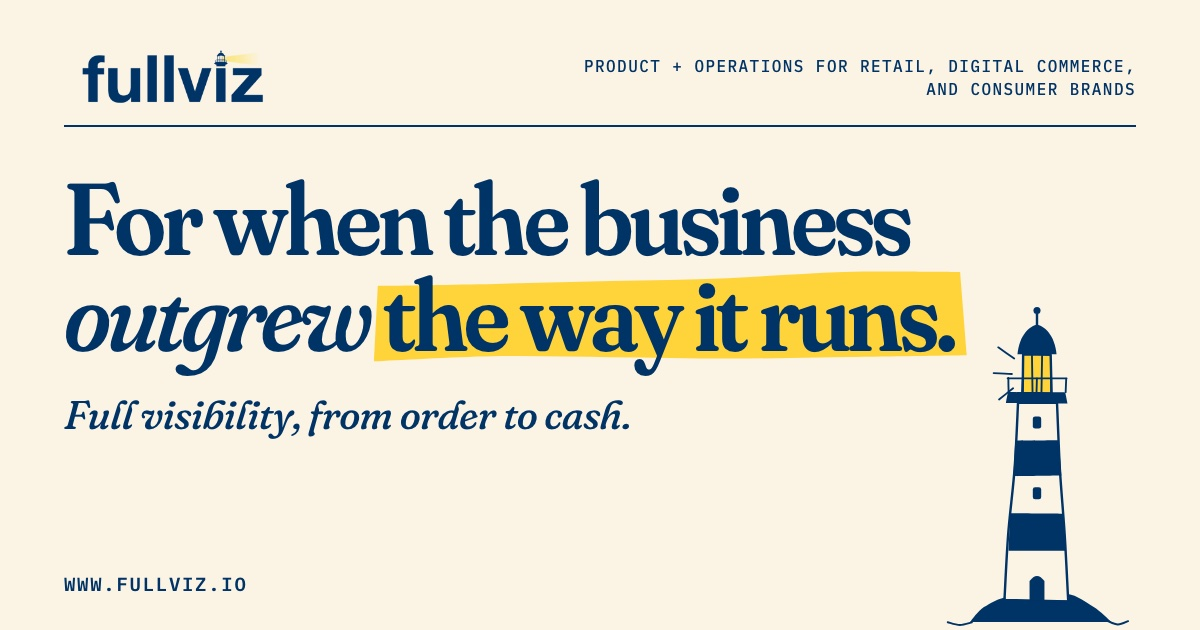
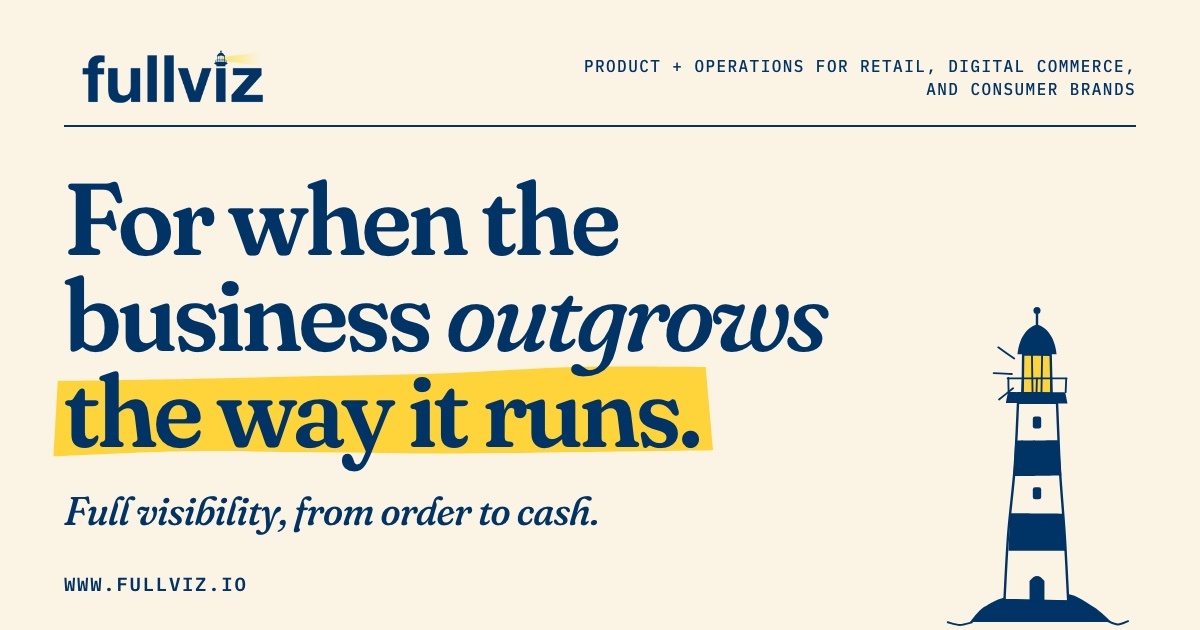
Headline: "outgrows" instead of "outgrew"
Present tense after "For when". Same change in the link-preview title,
the share image, the search description, and the Sound familiar intro.
Hero headline size trimmed so it holds two lines on desktop.

Changed region(s): [[0.0308, 0.2714, 0.8325, 0.754], [0.0308, 0.7841, 0.4933, 0.8444]]

diff --git a/index.html b/index.html
@@ -4,17 +4,17 @@
 <meta charset="utf-8">
 <meta name="viewport" content="width=device-width, initial-scale=1">
 <title>FullViz: product and ops for retail, from order to cash</title>
-<meta name="description" content="Blake Lawson works with retail, digital commerce, and consumer brands that outgrew the way they run. Systems and operations, from quote to cash.">
+<meta name="description" content="Blake Lawson works with retail, digital commerce, and consumer brands that have outgrown the way they run. Systems and operations, from quote to cash.">
 <link rel="canonical" href="https://www.fullviz.io/">
 <meta property="og:type" content="website">
 <meta property="og:site_name" content="FullViz">
-<meta property="og:title" content="For when the business outgrew the way it runs.">
+<meta property="og:title" content="For when the business outgrows the way it runs.">
 <meta property="og:description" content="Full visibility, from order to cash. Blake Lawson on product, systems, and operations for retail, digital commerce, and consumer brands.">
 <meta property="og:url" content="https://www.fullviz.io/">
 <meta property="og:image" content="https://www.fullviz.io/assets/img/og.jpg">
 <meta property="og:image:width" content="1200">
 <meta property="og:image:height" content="630">
-<meta property="og:image:alt" content="FullViz. For when the business outgrew the way it runs.">
+<meta property="og:image:alt" content="FullViz. For when the business outgrows the way it runs.">
 <meta name="twitter:card" content="summary_large_image">
 <!-- @include head -->
 <meta name="theme-color" content="#FBF4E4">
@@ -55,7 +55,7 @@
 
     <!-- Hero -->
     <section class="hero" aria-labelledby="hero-h">
-      <h1 id="hero-h">For when the business <em>outgrew</em> <span class="mark">the way it runs.<!-- @include swipe -->
+      <h1 id="hero-h">For when the business <em>outgrows</em> <span class="mark">the way it runs.<!-- @include swipe -->
 <svg viewBox="0 0 300 60" preserveAspectRatio="none" aria-hidden="true" focusable="false"><path d="M4.4 10.3C14.1 10.1 43.2 9.6 62.6 9.1C82.1 8.6 101.5 8.0 120.9 7.4C140.3 6.8 159.8 6.5 179.2 5.6C198.6 4.6 217.9 2.5 237.4 1.8C256.8 1.2 286.0 1.8 295.7 1.8C296.2 10.2 298.5 44.2 299.0 52.7C289.1 52.9 259.5 53.5 239.7 53.8C219.9 54.1 200.2 54.7 180.4 54.7C160.6 54.7 140.9 54.1 121.1 53.9C101.3 53.6 81.5 52.9 61.8 53.3C42.0 53.7 12.4 55.9 2.5 56.4C2.8 48.7 4.1 18.0 4.4 10.3Z"/></svg>
 <!-- @end swipe --></span></h1>
 
@@ -220,7 +220,7 @@
       <div class="section__head">
         <p class="label">Symptoms</p>
         <h2 id="familiar-h">Sound familiar?</h2>
-        <p class="section__lede">Four ways a business tells you it outgrew the way it runs.</p>
+        <p class="section__lede">Four ways a business tells you it has outgrown the way it runs.</p>
       </div>
       <ul class="notes">
         <li class="note tape">

diff --git a/about.html b/about.html
@@ -14,7 +14,7 @@
 <meta property="og:image" content="https://www.fullviz.io/assets/img/og.jpg">
 <meta property="og:image:width" content="1200">
 <meta property="og:image:height" content="630">
-<meta property="og:image:alt" content="FullViz. For when the business outgrew the way it runs.">
+<meta property="og:image:alt" content="FullViz. For when the business outgrows the way it runs.">
 <meta name="twitter:card" content="summary_large_image">
 <!-- @include head -->
 <meta name="theme-color" content="#FBF4E4">

diff --git a/contact.html b/contact.html
@@ -14,7 +14,7 @@
 <meta property="og:image" content="https://www.fullviz.io/assets/img/og.jpg">
 <meta property="og:image:width" content="1200">
 <meta property="og:image:height" content="630">
-<meta property="og:image:alt" content="FullViz. For when the business outgrew the way it runs.">
+<meta property="og:image:alt" content="FullViz. For when the business outgrows the way it runs.">
 <meta name="twitter:card" content="summary_large_image">
 <!-- @include head -->
 <meta name="theme-color" content="#FBF4E4">

diff --git a/field-notes.html b/field-notes.html
@@ -14,7 +14,7 @@
 <meta property="og:image" content="https://www.fullviz.io/assets/img/og.jpg">
 <meta property="og:image:width" content="1200">
 <meta property="og:image:height" content="630">
-<meta property="og:image:alt" content="FullViz. For when the business outgrew the way it runs.">
+<meta property="og:image:alt" content="FullViz. For when the business outgrows the way it runs.">
 <meta name="twitter:card" content="summary_large_image">
 <!-- @include head -->
 <meta name="theme-color" content="#FBF4E4">

diff --git a/field-notes/eighty-five-to-ninety-two.html b/field-notes/eighty-five-to-ninety-two.html
@@ -14,7 +14,7 @@
 <meta property="og:image" content="https://www.fullviz.io/assets/img/og.jpg">
 <meta property="og:image:width" content="1200">
 <meta property="og:image:height" content="630">
-<meta property="og:image:alt" content="FullViz. For when the business outgrew the way it runs.">
+<meta property="og:image:alt" content="FullViz. For when the business outgrows the way it runs.">
 <meta name="twitter:card" content="summary_large_image">
 <!-- @include head -->
 <meta name="theme-color" content="#FBF4E4">

diff --git a/field-notes/four-brands-nine-countries.html b/field-notes/four-brands-nine-countries.html
@@ -14,7 +14,7 @@
 <meta property="og:image" content="https://www.fullviz.io/assets/img/og.jpg">
 <meta property="og:image:width" content="1200">
 <meta property="og:image:height" content="630">
-<meta property="og:image:alt" content="FullViz. For when the business outgrew the way it runs.">
+<meta property="og:image:alt" content="FullViz. For when the business outgrows the way it runs.">
 <meta name="twitter:card" content="summary_large_image">
 <!-- @include head -->
 <meta name="theme-color" content="#FBF4E4">

diff --git a/field-notes/four-hubs-forty-five-sites.html b/field-notes/four-hubs-forty-five-sites.html
@@ -14,7 +14,7 @@
 <meta property="og:image" content="https://www.fullviz.io/assets/img/og.jpg">
 <meta property="og:image:width" content="1200">
 <meta property="og:image:height" content="630">
-<meta property="og:image:alt" content="FullViz. For when the business outgrew the way it runs.">
+<meta property="og:image:alt" content="FullViz. For when the business outgrows the way it runs.">
 <meta name="twitter:card" content="summary_large_image">
 <!-- @include head -->
 <meta name="theme-color" content="#FBF4E4">

diff --git a/field-notes/intelligent-returns.html b/field-notes/intelligent-returns.html
@@ -14,7 +14,7 @@
 <meta property="og:image" content="https://www.fullviz.io/assets/img/og.jpg">
 <meta property="og:image:width" content="1200">
 <meta property="og:image:height" content="630">
-<meta property="og:image:alt" content="FullViz. For when the business outgrew the way it runs.">
+<meta property="og:image:alt" content="FullViz. For when the business outgrows the way it runs.">
 <meta name="twitter:card" content="summary_large_image">
 <!-- @include head -->
 <meta name="theme-color" content="#FBF4E4">

diff --git a/field-notes/lost-in-transit.html b/field-notes/lost-in-transit.html
@@ -14,7 +14,7 @@
 <meta property="og:image" content="https://www.fullviz.io/assets/img/og.jpg">
 <meta property="og:image:width" content="1200">
 <meta property="og:image:height" content="630">
-<meta property="og:image:alt" content="FullViz. For when the business outgrew the way it runs.">
+<meta property="og:image:alt" content="FullViz. For when the business outgrows the way it runs.">
 <meta name="twitter:card" content="summary_large_image">
 <!-- @include head -->
 <meta name="theme-color" content="#FBF4E4">

diff --git a/field-notes/the-4-50-return.html b/field-notes/the-4-50-return.html
@@ -14,7 +14,7 @@
 <meta property="og:image" content="https://www.fullviz.io/assets/img/og.jpg">
 <meta property="og:image:width" content="1200">
 <meta property="og:image:height" content="630">
-<meta property="og:image:alt" content="FullViz. For when the business outgrew the way it runs.">
+<meta property="og:image:alt" content="FullViz. For when the business outgrows the way it runs.">
 <meta name="twitter:card" content="summary_large_image">
 <!-- @include head -->
 <meta name="theme-color" content="#FBF4E4">

diff --git a/field-notes/the-50k-definition.html b/field-notes/the-50k-definition.html
@@ -14,7 +14,7 @@
 <meta property="og:image" content="https://www.fullviz.io/assets/img/og.jpg">
 <meta property="og:image:width" content="1200">
 <meta property="og:image:height" content="630">
-<meta property="og:image:alt" content="FullViz. For when the business outgrew the way it runs.">
+<meta property="og:image:alt" content="FullViz. For when the business outgrows the way it runs.">
 <meta name="twitter:card" content="summary_large_image">
 <!-- @include head -->
 <meta name="theme-color" content="#FBF4E4">

diff --git a/field-notes/the-fourth-warehouse.html b/field-notes/the-fourth-warehouse.html
@@ -14,7 +14,7 @@
 <meta property="og:image" content="https://www.fullviz.io/assets/img/og.jpg">
 <meta property="og:image:width" content="1200">
 <meta property="og:image:height" content="630">
-<meta property="og:image:alt" content="FullViz. For when the business outgrew the way it runs.">
+<meta property="og:image:alt" content="FullViz. For when the business outgrows the way it runs.">
 <meta name="twitter:card" content="summary_large_image">
 <!-- @include head -->
 <meta name="theme-color" content="#FBF4E4">
